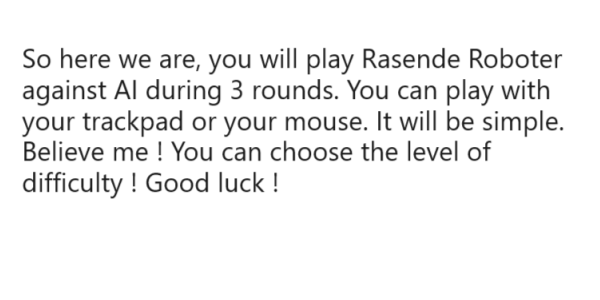
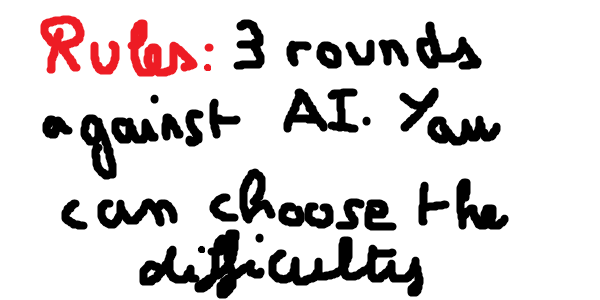
Fix : Beginning of the game architecture

Changed region(s): [[0.03, 0.03, 0.93, 1.0], [0.69, 0.6, 0.87, 0.78]]

diff --git a/Src/game.py b/Src/game.py
@@ -11,15 +11,15 @@ class Game:
         pygame.display.set_caption("Rasende Roboter")
         self.clock = pygame.time.Clock()
         self.screen.fill((255,255,255))
+        self.in_menu = True
+        self.in_rules_menu = False
+        self.in_choice_menu = False
         self.grid = grid  
         self.grid.grid_final()
-        self.in_menu = True
-        self.in_choice_menu = False
         self.start_position_robot = self.grid.position_robot
         clean_all_status(self.grid,self.start_position_robot)
         self.grid.initHeur(self.start_position_robot)
-
-        self.grid.printHeur()
+        
      
     def display_menu(self):
 
@@ -30,12 +30,22 @@ class Game:
         self.screen.blit(pygame.image.load("../Asset/by.png"),(225,110))
         self.screen.blit(pygame.image.load("../Asset/tag.png"),(225,175))
 
-    def display_choice_menu(self):
-        self.screen.blit(pygame.image.load("../Asset/rules.png"),(115,150))
+    def display_rules_menu(self):
+        self.screen.blit(pygame.image.load("../Asset/rules.png"),(115,50))
+        self.screen.blit(pygame.image.load("../Asset/rules_2.png"),(115,400))
+        self.screen.blit(pygame.image.load("../Asset/next.png"),(750,0))
+        self.screen.blit(pygame.image.load("../Asset/back.png"),(0,0))
 
-    def run(self):
+    def display_choice_menu(self):
+        self.screen.blit(pygame.image.load("../Asset/hardcore.png"),(115,50))
+        self.screen.blit(pygame.image.load("../Asset/medium.png"),(115,250))
+        self.screen.blit(pygame.image.load("../Asset/easy.png"),(115,500))
+        self.screen.blit(pygame.image.load("../Asset/back.png"),(0,0))
+
+    def run(self,difficulty):
+        self.screen.fill((255, 255, 255))
+
         while True:
-            self.grid.win(self.screen)
 
             for event in pygame.event.get():
                 if event.type == pygame.QUIT:
@@ -45,27 +55,66 @@ class Game:
                 if event.type == pygame.MOUSEBUTTONDOWN and event.button == 1:
                     x, y = pygame.mouse.get_pos()
                     x, y = (y - 40) // 45, (x - 40) // 45
+                    self.grid.reset(x, y)
+                    self.grid.move(x, y)
 
+            self.grid.display(self.screen)
+            pygame.display.flip()
+            self.clock.tick(30)
 
+    def menu(self):
+        while True:
+
+            for event in pygame.event.get():
+                if event.type == pygame.QUIT:
+                    pygame.quit()
+                    sys.exit()
+
+                if event.type == pygame.MOUSEBUTTONDOWN and event.button == 1:
+                    x, y = pygame.mouse.get_pos()
+                    x, y = (y - 40) // 45, (x - 40) // 45
+                    print(y,x)
+                    
                     if self.in_menu:
                         if 6 <= x <= 7 and 5 <= y <= 10:
                             self.in_menu = False
-                            self.in_choice_menu = True
+                            self.in_rules_menu = True
                             self.screen.fill((255, 255, 255))
                         elif 9 <= x <= 10 and 5 <= y <= 10:
                             pygame.quit()
                             sys.exit()
-                    else:
-                        self.grid.reset(x, y)
-                        self.grid.move(x, y)
+                    
+                    if self.in_rules_menu:
+                        if y == 16 and x == -1:
+                            self.in_rules_menu = False
+                            self.in_choice_menu = True
+                            self.screen.fill((255, 255, 255))
+                        if y == -1 and x == -1:
+                            self.in_rules_menu =False
+                            self.in_menu = True
+                            self.screen.fill((255, 255, 255))
+
+                    if self.in_choice_menu:
+                        if 1 <= x <= 4 and 2 <= y <= 14:
+                            return 3 
+                        if 5 <= x <= 8 and 2 <= y <= 14:
+                            return 2
+                        if 10 <= x <= 13 and 2 <= y <= 14:
+                            return 1
+                        if y == -1 and x == -1:
+                            self.in_choice_menu = False
+                            self.in_rules_menu =True
+                            self.screen.fill((255, 255, 255))
+    
 
 
             if self.in_menu:
                 self.display_menu()
+            elif self.in_rules_menu:
+                self.display_rules_menu()
             elif self.in_choice_menu:
                 self.display_choice_menu()
-            else:
-                self.grid.display(self.screen)
+
 
             pygame.display.flip()
             self.clock.tick(30)

diff --git a/Src/main.py b/Src/main.py
@@ -5,6 +5,6 @@ from game import *
 if __name__ == "__main__" :
     grid = Grid()
     game = Game(grid)
-    game.run()
-
+    level = game.menu()
+    game.run(0)
     # # pass
